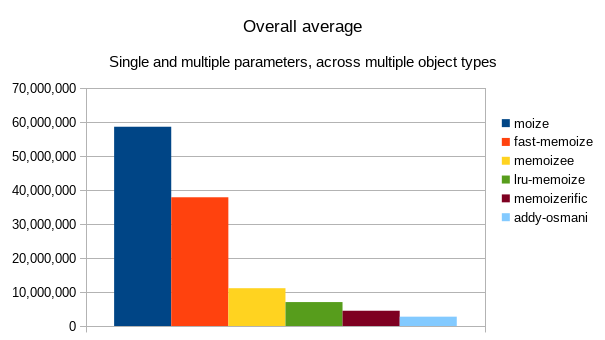
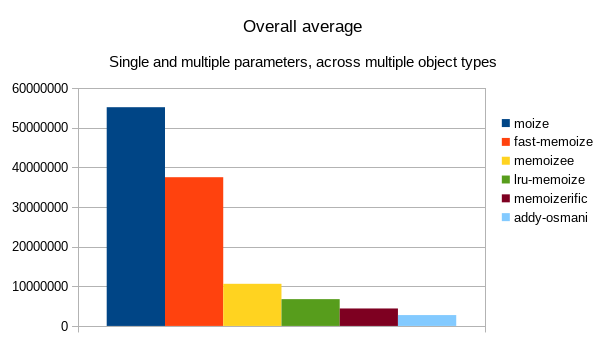
Update benchmarks with new micro-memoize version

Changed region(s): [[0.0, 0.2353, 0.8033, 0.9706], [0.6545, 0.9118, 0.7438, 0.9412]]

diff --git a/src/utils.js b/src/utils.js
@@ -25,8 +25,8 @@ export const combine = (...functions: Array<any>): ?Function => {
         ? typeof g === 'function'
           ? function(): any {
             /* eslint-disable prefer-spread */
-            f.apply(this, arguments);
             g.apply(this, arguments);
+            f.apply(this, arguments);
             /* eslint-enable */
           }
           : f

diff --git a/README.md b/README.md
@@ -967,15 +967,15 @@ Each benchmark was performed using the default configuration of the library, wit
 
 | Name         | Overall (average) | Single (average) | Multiple (average) | Single (primitive) | Single (Array) | Single (Object) | Multiple (primitive) | Multiple (Array) | Multiple (Object) |
 | ------------ | ----------------- | ---------------- | ------------------ | ------------------ | -------------- | --------------- | -------------------- | ---------------- | ----------------- |
-| **moize**    | **58,669,248**    | **67,308,143**   | **50,030,353**     | **80,260,036**     | **60,871,531** | **60,792,864**  | **50,510,487**       | **50,281,433**   | **49,299,140**    |
-| fast-memoize | 37,901,525        | 74,753,514       | 1,049,536          | 221,161,329        | 1,594,143      | 1,505,072       | 1,215,892            | 1,111,605        | 821,111           |
-| memoizee     | 11,128,750        | 13,712,714       | 8,544,786          | 16,811,901         | 11,983,924     | 12,342,317      | 10,568,148           | 7,401,170        | 7,665,041         |
-| lru-memoize  | 7,042,509         | 7,492,004        | 6,593,015          | 8,189,054          | 7,153,791      | 7,133,169       | 6,675,840            | 6,592,401        | 6,510,804         |
-| memoizerific | 4,484,511         | 4,840,758        | 4,128,264          | 5,641,865          | 4,418,423      | 4,461,986       | 4,761,211            | 3,998,986        | 3,624,597         |
-| addy-osmani  | 2,730,139         | 3,381,737        | 2,078,540          | 6,580,745          | 1,784,218      | 1,780,250       | 3,478,684            | 1,786,383        | 970,555           |
-| lodash       | N/A               | 14,825,854       | N/A                | 27,985,602         | 8,207,788      | 8,284,173       | N/A                  | N/A              | N/A               |
-| underscore   | N/A               | 12,505,751       | N/A                | 24,051,104         | 5,404,896      | 8,061,254       | N/A                  | N/A              | N/A               |
-| ramda        | N/A               | 551,402          | N/A                | 1,142,370          | 303,464        | 208,372         | N/A                  | N/A              | N/A               |
+| moize        | 55,205,113        | 63,248,398       | 47,161,828         | 73,478,914         | 58,205,148     | 58,061,133      | 48,187,157           | 47,384,691       | 45,913,636        |
+| fast-memoize | 37,537,162        | 74,042,278       | 1,032,046          | 219,022,899        | 1,624,274      | 1,479,662       | 1,175,061            | 1,086,790        | 834,287           |
+| memoizee     | 10,631,691        | 12,965,728       | 8,297,654          | 16,395,781         | 11,263,987     | 11,237,416      | 9,756,499            | 7,530,822        | 7,605,643         |
+| lru-memoize  | 6,757,032         | 7,163,329        | 6,350,735          | 7,913,745          | 6,783,980      | 6,792,264       | 6,452,358            | 6,264,020        | 6,335,827         |
+| memoizerific | 4,408,276         | 4,795,399        | 4,021,153          | 5,595,529          | 4,400,864      | 4,389,804       | 4,588,841            | 3,917,837        | 3,556,782         |
+| addy-osmani  | 2,735,586         | 3,381,603        | 2,089,568          | 6,432,484          | 1,906,135      | 1,806,192       | 3,422,628            | 1,858,279        | 987,799           |
+| lodash       | N/A               | 14,382,674       | N/A                | 26,855,491         | 8,186,175      | 8,106,357       | N/A                  | N/A              | N/A               |
+| underscore   | N/A               | 12,371,321       | N/A                | 24,016,825         | 5,146,314      | 7,950,825       | N/A                  | N/A              | N/A               |
+| ramda        | N/A               | 525,718          | N/A                | 1,093,643          | 279,193        | 204,319         | N/A                  | N/A              | N/A               |
 
 ![Overall average image](img/overall-average.png)
 
